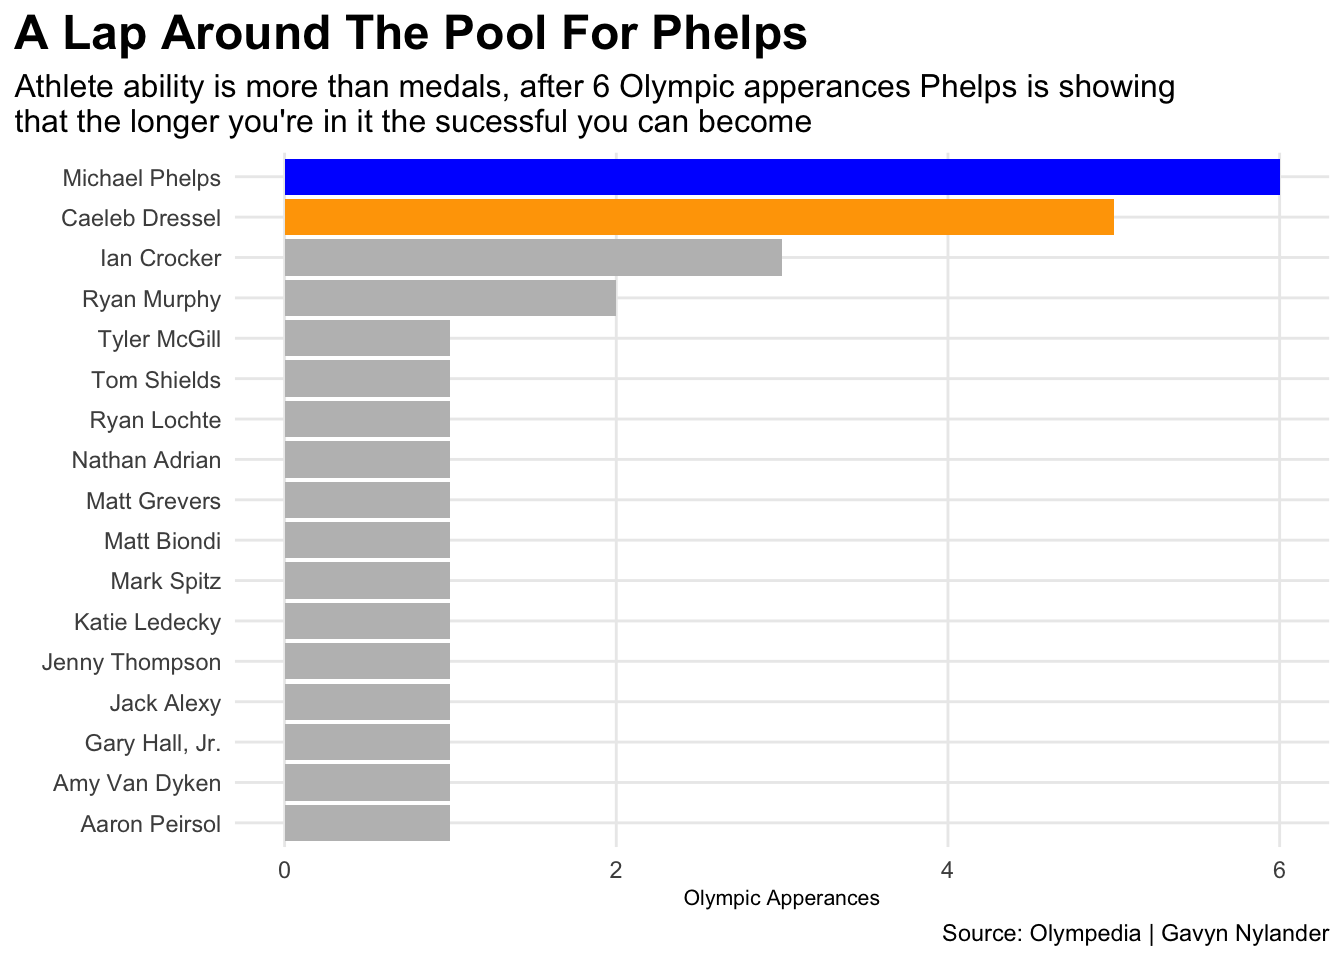
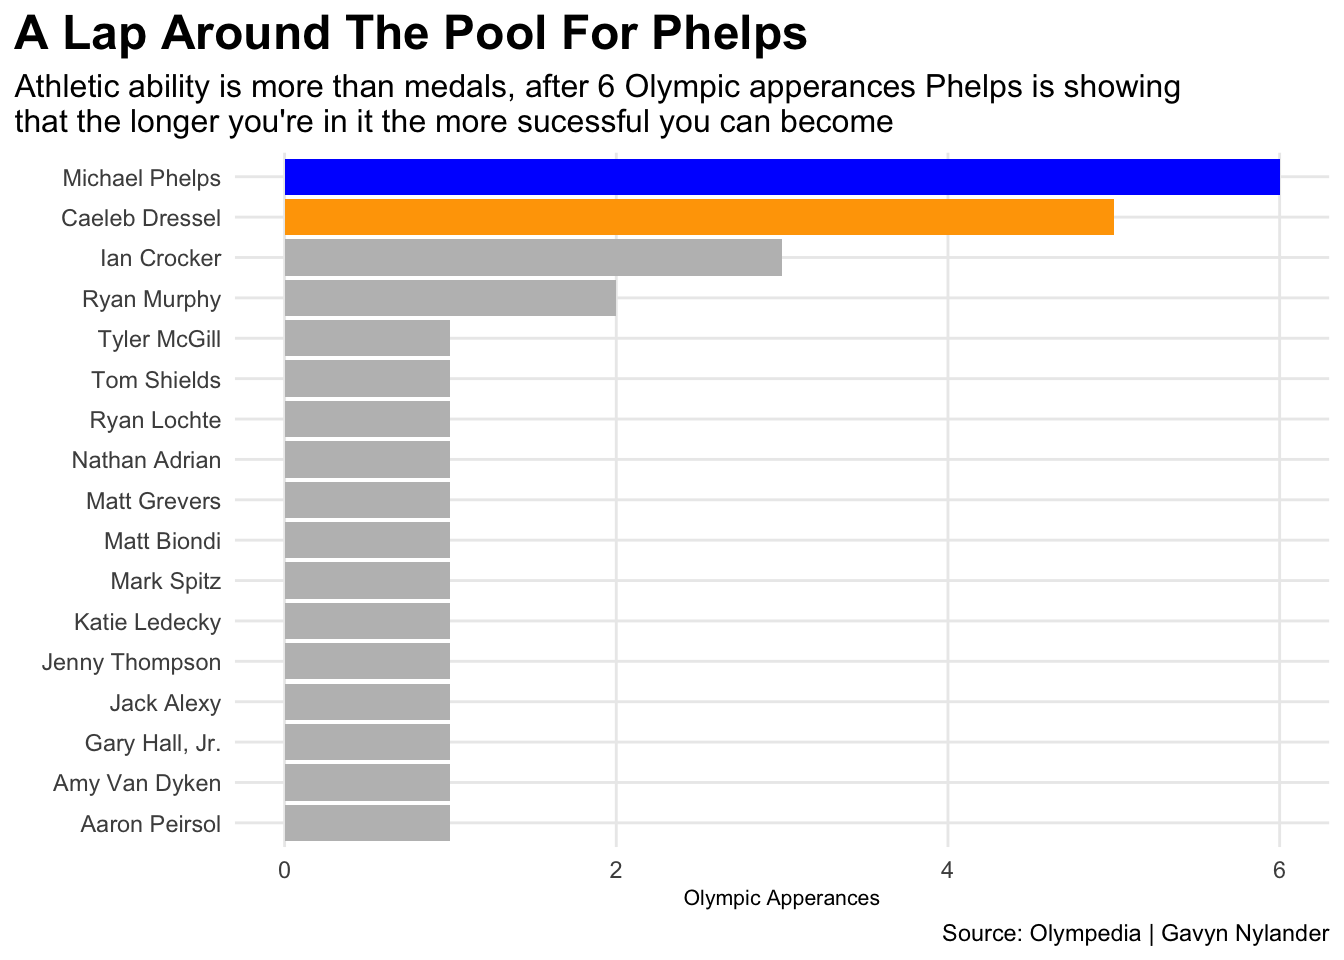
1

Changed region(s): [[0.0625, 0.0625, 0.875, 0.1562]]

diff --git a/posts/does-longevity-give-an-athletic-advantage/index.html b/posts/does-longevity-give-an-athletic-advantage/index.html
@@ -9,7 +9,7 @@
 <meta name="author" content="Gavyn Nylander">
 <meta name="dcterms.date" content="2025-11-14">
 
-<title>The Michael Phelps Legacy: Showing That Longevity Builds an Athletic Advantage – Gavyn Nylander's Sports Data Blog</title>
+<title>The Michael Phelps Legacy: Showing That Longevity Creates an Athletic Advantage – Gavyn Nylander’s Sports Data Blog</title>
 <style>
 code{white-space: pre-wrap;}
 span.smallcaps{font-variant: small-caps;}
@@ -154,7 +154,7 @@ pre > code.sourceCode > span > a:first-child::before { text-decoration: underlin
 <header id="title-block-header" class="quarto-title-block default page-columns page-full">
   <div class="quarto-title-banner page-columns page-full">
     <div class="quarto-title column-body">
-      <h1 class="title">The Michael Phelps Legacy: Showing That Longevity Builds an Athletic Advantage</h1>
+      <h1 class="title">The Michael Phelps Legacy: Showing That Longevity Creates an Athletic Advantage</h1>
                                 <div class="quarto-categories">
                 <div class="quarto-category">olympics</div>
                 <div class="quarto-category">swimming</div>
@@ -198,7 +198,7 @@ pre > code.sourceCode > span > a:first-child::before { text-decoration: underlin
 <p>&nbsp;</p>
 <p>In 2000, Phelps competed in his first Olympics at the age of 15. Dressel, however, is much newer to the Olympic stage competing in his first games in 2016, showing the wide difference in the duration of their Olympic careers.&nbsp;</p>
 <p>&nbsp;</p>
-<p>Phelps background highlights how continued involvement in a sport can have its benefits. Years at the highest level provide more opportunities to develop the competitive spirit that it takes to be successful on a global stage.</p>
+<p>Phelps background highlights how continued involvement in a sport can have its benefits. Years at the highest level provides more opportunities to develop the competitive spirit that it takes to be successful on a global stage.</p>
 <div class="cell">
 <details class="code-fold">
 <summary>Code</summary>
@@ -229,7 +229,7 @@ pre > code.sourceCode > span > a:first-child::before { text-decoration: underlin
 <span id="cb1-25"><a href="#cb1-25" aria-hidden="true" tabindex="-1"></a>    <span class="at">x=</span><span class="st">" "</span>, </span>
 <span id="cb1-26"><a href="#cb1-26" aria-hidden="true" tabindex="-1"></a>    <span class="at">y=</span><span class="st">"Olympic Apperances"</span>,</span>
 <span id="cb1-27"><a href="#cb1-27" aria-hidden="true" tabindex="-1"></a>    <span class="at">title=</span><span class="st">"A Lap Around The Pool For Phelps"</span>, </span>
-<span id="cb1-28"><a href="#cb1-28" aria-hidden="true" tabindex="-1"></a>    <span class="at">subtitle=</span><span class="st">"Athlete ability is more than medals, after 6 Olympic apperances Phelps is showing </span><span class="sc">\n</span><span class="st">that the longer you're in it the sucessful you can become"</span>, </span>
+<span id="cb1-28"><a href="#cb1-28" aria-hidden="true" tabindex="-1"></a>    <span class="at">subtitle=</span><span class="st">"Athletic ability is more than medals, after 6 Olympic apperances Phelps is showing </span><span class="sc">\n</span><span class="st">that the longer you're in it the more sucessful you can become"</span>, </span>
 <span id="cb1-29"><a href="#cb1-29" aria-hidden="true" tabindex="-1"></a>    <span class="at">caption=</span><span class="st">"Source: Olympedia | Gavyn Nylander"</span></span>
 <span id="cb1-30"><a href="#cb1-30" aria-hidden="true" tabindex="-1"></a>    ) <span class="sc">+</span></span>
 <span id="cb1-31"><a href="#cb1-31" aria-hidden="true" tabindex="-1"></a>  <span class="fu">theme_minimal</span>() <span class="sc">+</span> </span>
@@ -911,8 +911,8 @@ pre > code.sourceCode > span > a:first-child::before { text-decoration: underlin
 </div>
 </div>
 </div>
-<p>When comparing these two athletes medal counts, the difference between them become even more obvious. Phelps has won more medals than any other swimmer. With 28 medals showing what years of work looks like.&nbsp;</p>
-<p>The data illustrates how long-term commitment in sports has positive outcomes for the athlete. This is something that is shown in other sports, not just in the swimming world. Years of dedication to a sport contributes to building a legacy that inspires other athletes to follow long and hope to be a part of that same legacy someday.</p>
+<p>When comparing these two athletes medal counts, the difference between them becomes even more obvious. Phelps has won more medals than any other swimmer. With 28 medals showing what years of hard work looks like.&nbsp;</p>
+<p>The data illustrates how long-term commitment in sports has positive outcomes for athletes. This is something that is shown in other sports, not just in the swimming world. Years of dedication to a sport contributes to building a legacy that inspires other athletes to follow long and hope to be a part of that same legacy someday.</p>
 <p>&nbsp;</p>
 
 

diff --git a/index.html b/index.html
@@ -209,7 +209,7 @@ window.Quarto = {
 
 <div class="quarto-listing quarto-listing-container-default" id="listing-listing">
 <div class="list quarto-listing-default">
-<div class="quarto-post image-right" data-index="0" data-categories="b2x5bXBpY3MlMkNzd2ltbWluZw==" data-listing-date-sort="1763100000000" data-listing-file-modified-sort="1763314794113" data-listing-date-modified-sort="NaN" data-listing-reading-time-sort="6" data-listing-word-count-sort="1195">
+<div class="quarto-post image-right" data-index="0" data-categories="b2x5bXBpY3MlMkNzd2ltbWluZw==" data-listing-date-sort="1763100000000" data-listing-file-modified-sort="1763316443115" data-listing-date-modified-sort="NaN" data-listing-reading-time-sort="6" data-listing-word-count-sort="1196">
 <div class="thumbnail"><a href="./posts/does-longevity-give-an-athletic-advantage/index.html" class="no-external">
 
 <img loading="lazy" src="./posts/does-longevity-give-an-athletic-advantage/image.png" class="thumbnail-image">
